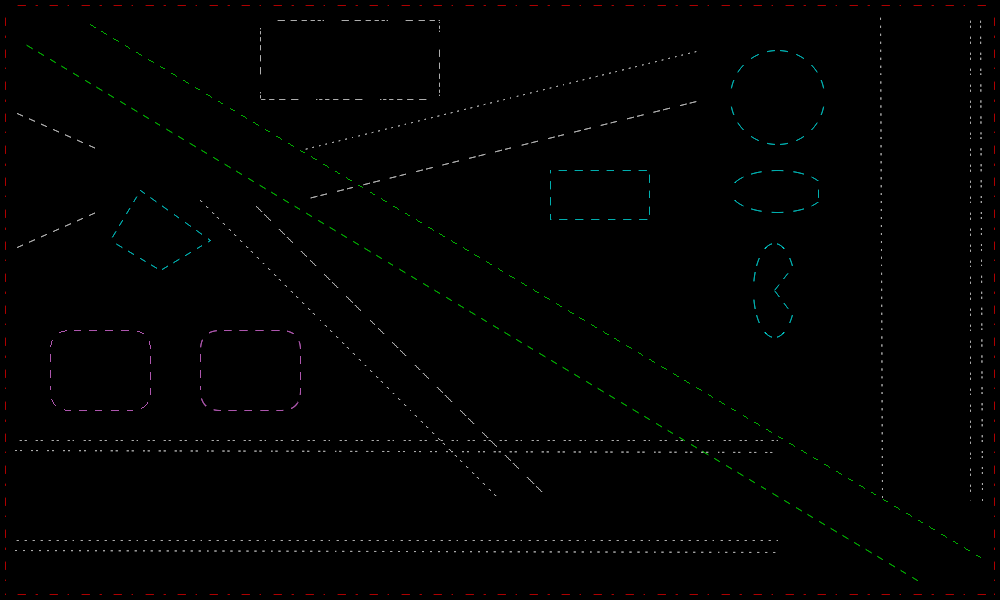
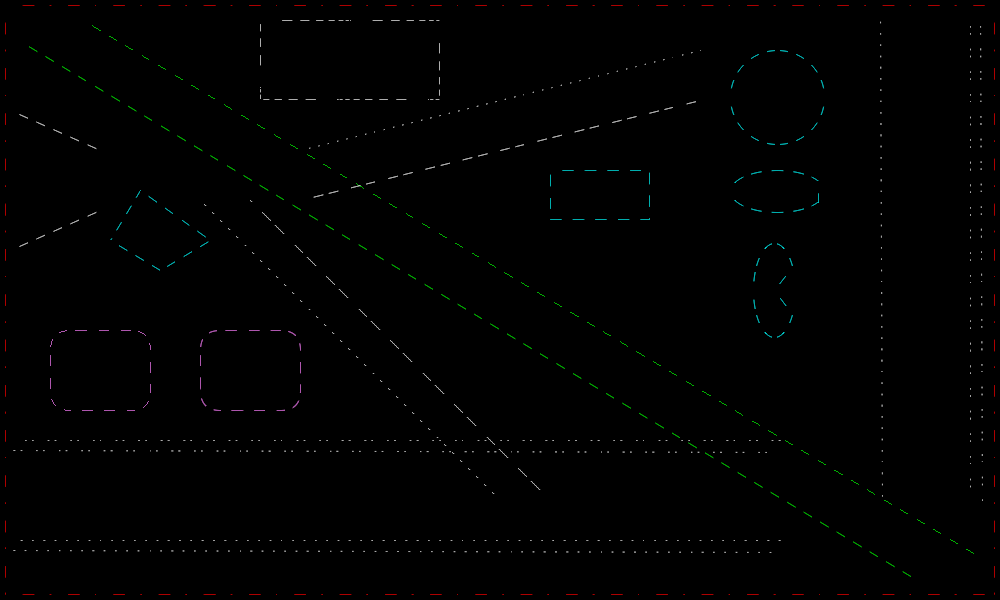
Improving patterned line

diff --git a/src/Pt-Gfx/Rasterizer2.cpp b/src/Pt-Gfx/Rasterizer2.cpp
@@ -219,11 +219,11 @@ void Rasterizer2::strokeText( const Point& to, const Pt::String& text )
 void Rasterizer2::updatePenPattern()
 {
     // Predefined patterns
-    static const Pt::uint64_t patternDot        = 0xC0C0C0C0C0C0C0C0; // 1100000011000000110000001100000011000000110000001100000011000000
-    static const Pt::uint64_t patternDoubleDot  = 0xC600C600C600C600; // 1100011000000000110001100000000011000110000000001100011000000000
-    static const Pt::uint64_t patternDash       = 0xFF00FF00FF00FF00; // 1111111100000000111111110000000011111111000000001111111100000000
-    static const Pt::uint64_t patternDoubleDash = 0xFF0FF000FF0FF000; // 1111111100001111111100000000000011111111000011111111000000000000
-    static const Pt::uint64_t patternDotDash    = 0xC00FF000C00FF000; // 1100000000001111111100000000000011000000000011111111000000000000
+    static const Pt::uint64_t patternDot        = 0x8080808080808080;// 1000000010000000100000001000000010000000100000001000000010000000
+    static const Pt::uint64_t patternDoubleDot  = 0x8400840084008400;// 1000010000000000100001000000000010000100000000001000010000000000
+    static const Pt::uint64_t patternDash       = 0xFF00FF00FF00FF00;// 1111111100000000111111110000000011111111000000001111111100000000
+    static const Pt::uint64_t patternDoubleDash = 0xFF07F800FF07F800;// 1111111100000111111110000000000011111111000001111111100000000000
+    static const Pt::uint64_t patternDotDash    = 0x800FF000800FF000;// 1000000000001111111100000000000010000000000011111111000000000000
 
     // Select the pattern
     Pt::uint64_t patternSel;

diff --git a/src/Pt-Gfx/Rasterizer2.h b/src/Pt-Gfx/Rasterizer2.h
@@ -46,9 +46,10 @@
 // Fixed-Point 16.16 Settings
 #define FIXED_POINT_SHIFT_FACTOR     16         // Shift factor
 #define FIXED_POINT_FRACT_BITMASK    0x0000FFFF // Bit mask for the fractional value; must be (2 ^ FIXED_POINT_SHIFT_FACTOR - 1)
-#define FIXED_POINT_CONSTANT_ONE     65536      // The value 1.0  in fixed-point ( 2 ^ FIXED_POINT_SHIFT_FACTOR    )
-#define FIXED_POINT_CONSTANT_HALF    32768      // The value 0.5  in fixed-point ( 2 ^ FIXED_POINT_SHIFT_FACTOR / 2)
-#define FIXED_POINT_CONSTANT_QUARTER 16384      // The value 0.25 in fixed-point ( 2 ^ FIXED_POINT_SHIFT_FACTOR / 4)
+#define FIXED_POINT_CONSTANT_ONE     65536      // The value 1.0       in fixed-point ( 2 ^ FIXED_POINT_SHIFT_FACTOR           )
+#define FIXED_POINT_CONSTANT_HALF    32768      // The value 0.5       in fixed-point ( 2 ^ FIXED_POINT_SHIFT_FACTOR / 2       )
+#define FIXED_POINT_CONSTANT_QUARTER 16384      // The value 0.25      in fixed-point ( 2 ^ FIXED_POINT_SHIFT_FACTOR / 4       )
+#define FIXED_POINT_CONSTANT_ISQRT2  46341      // The value 1/sqrt(2) in fixed-point ( 2 ^ FIXED_POINT_SHIFT_FACTOR / sqrt(2) )
 
 // Fixed-Point 16.16 Helper Macros
 #define FIXED_POINT_IPART(V)        ( (V) & ~FIXED_POINT_FRACT_BITMASK )

diff --git a/src/Pt-Gfx/tests/ImagePainterTest2_Draw_Outline.cpp b/src/Pt-Gfx/tests/ImagePainterTest2_Draw_Outline.cpp
@@ -133,7 +133,7 @@ static void testDrawPatternedLine(const char* title, Image& image, Painter& pain
     if(ip2) ip2->drawArc( PointF (730, 170), SizeF(95, 43), 30, 330, ArcMode::Chord );
     if(ip2) ip2->drawArc( PointF (753, 243), SizeF(43, 95), 30, 330, ArcMode::Pie );
 
-    painter.setPen( Pen( Color::fromRgb8(255, 255, 255, 175), 1, 0xCE3C3E0FC0FE0000 ) ); // 1100111000111100001111100000111111000000111111100000000000000000
+    painter.setPen( Pen( Color::fromRgb8(255, 255, 255, 175), 1, 0xB38F0F83F03F8000 ) ); // 1011001110001111000011111000001111110000001111111000000000000000
     painter.drawRect( RectF(PointF(260, 20), SizeF(180, 80)) );
 
     if(ip2) {

diff --git a/src/Pt-Gfx/Rasterizer2_PatternedLine.cpp b/src/Pt-Gfx/Rasterizer2_PatternedLine.cpp
@@ -48,7 +48,7 @@ void Rasterizer2::rasterOnePixelPatternedLine(Pt::int32_t x1, Pt::int32_t y1, Pt
     const Pt::int32_t sizeL = Gfx::Math::fastSqrt(sizeX * sizeX + sizeY * sizeY);
 
     // Calculate the incremental factor of the pattern indexing counter
-    const Pt::int32_t fpiCtrInc = FIXED_POINT_FROM_INT(PATTERN_BUFFER_SCALE_FACTOR * sizeS) / sizeL;
+    const Pt::int32_t fpiCtrInc = FIXED_POINT_CONSTANT_ISQRT2 * PATTERN_BUFFER_SCALE_FACTOR * sizeS / sizeL;
 
     // Check for 45-degree line
     if(abs(x2 - x1) == abs(y2 - y1)) {
